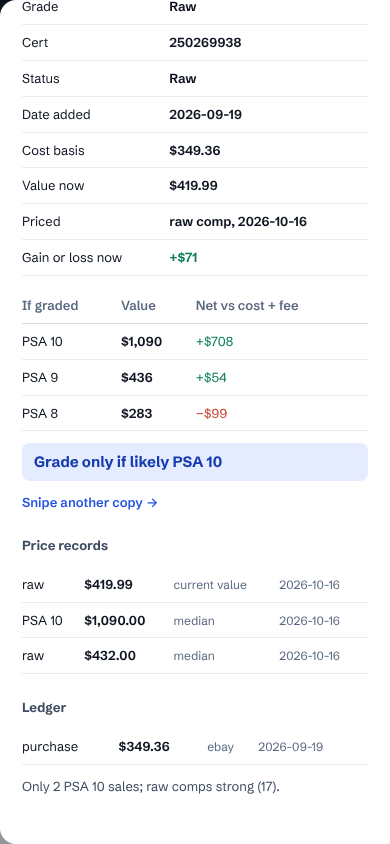
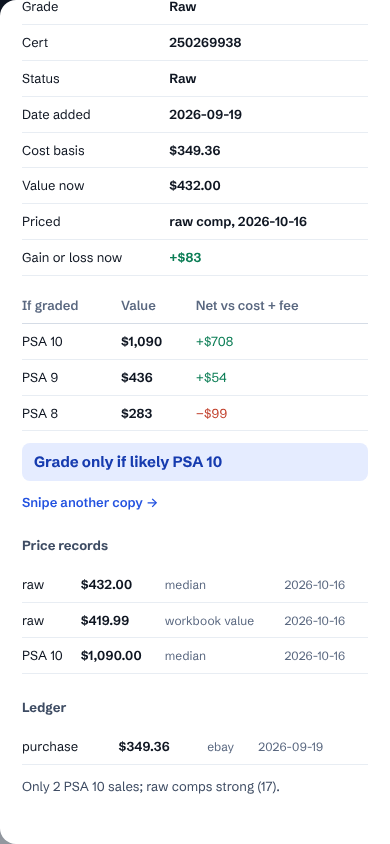
C5: rules file and price-auditor say only owner_set / ratio_to_base are owner values; workbook values are old prices; Vault screenshots updated
Claude-Session: https://claude.ai/code/session_018ZUH9edAfL4gQL3WiTpSKG

diff --git a/.claude/agents/price-auditor.md b/.claude/agents/price-auditor.md
@@ -7,7 +7,7 @@ skills:
 ---
 You audit; you never change data. You report, and the owner (Karim) decides.
 
-Data: read the snapshot file the coordinator names (.snapshots/<today>-prices.json); refuse a snapshot not dated today. It holds Card, LedgerEntry (kind purchase / grading_fee, amount, source, occurredOn), CardComp (grade, price, method, source, asOf), CardValueSnapshot. The Vault value of a card is the newest CardComp for its current grade ("raw" when raw or at PSA; "PSA 9" etc. when graded). Ties on the same date go to method value_used.
+Data: read the snapshot file the coordinator names (.snapshots/<today>-prices.json); refuse a snapshot not dated today. It holds Card, LedgerEntry (kind purchase / grading_fee, amount, source, occurredOn), CardComp (grade, price, method, source, asOf), CardValueSnapshot. The Vault value of a card is the newest CardComp for its current grade ("raw" when raw or at PSA; "PSA 9" etc. when graded). Same-date ties: owner_set / ratio_to_base win, workbook_import loses.
 
 Checks, per card:
 1. Cost
@@ -21,7 +21,7 @@ Checks, per card:
    - Value more than 3× or less than 0.33× of cost: list it for a second look, with the comp source and date. This is not an error by itself.
    - No comp at all: list it. Follow the card-comps skill.
    - Inversion: a numbered parallel valued below its own base's 90-day median. List it and hand it to researcher-2.
-   - Owner overrides (source owner_set, method value_used) stand. Report them, never "fix" them.
+   - Approved owner values (source owner_set or ratio_to_base) stand. Report them, never "fix" them. Values still from source workbook_import are stale: list them as "needs a Card Ladder price".
 3. Status consistency: a graded card needs a graded comp; a cracked card (notes say "cracked") must be raw and priced raw.
 
 Output: docs/audits/YYYY-MM-DD-prices.md, a table: card id | item | cost | value | source and date | problem | proposed fix. Errors first, then "second look", then OK count. Do not write to the database; propose SQL in the report for the owner to approve.

diff --git a/.claude/skills/card-comps/SKILL.md b/.claude/skills/card-comps/SKILL.md
@@ -16,8 +16,11 @@ description: Karim's rules for pricing a card - 90-day comps of the exact card, 
   Look up the raw value on PSA or Card Ladder and record source and date, else "no raw value found".
   (The snipe max-bid ceiling in packages/shared is a separate, approved bidding rule, not a valuation.)
 - Karim's own purchases (same date and price/seller as his ledger row) are not comps: flag them.
-- Owner overrides (CardComp source owner_set or ratio_to_base, method value_used) stand: report, never "fix".
-- Vault value of a card = newest CardComp for its current grade ("raw" when raw or at PSA); same-date ties go to value_used.
+- Approved owner values are ONLY CardComp rows with source owner_set or ratio_to_base: they stand; report, never "fix".
+  Rows with source workbook_import (the old workbook's "Value used" column, imported 2026-10-16) are ordinary old
+  prices, not Karim's choices: newer comps replace them.
+- Vault value of a card = newest CardComp for its current grade ("raw" when raw or at PSA); same-date ties: owner_set /
+  ratio_to_base win, workbook_import loses (one helper: apps/dashboard/src/lib/vault-comp.ts).
 
 ## Parallels
 - Inversion: a numbered parallel valued below its own base -> hand to researcher-2.
